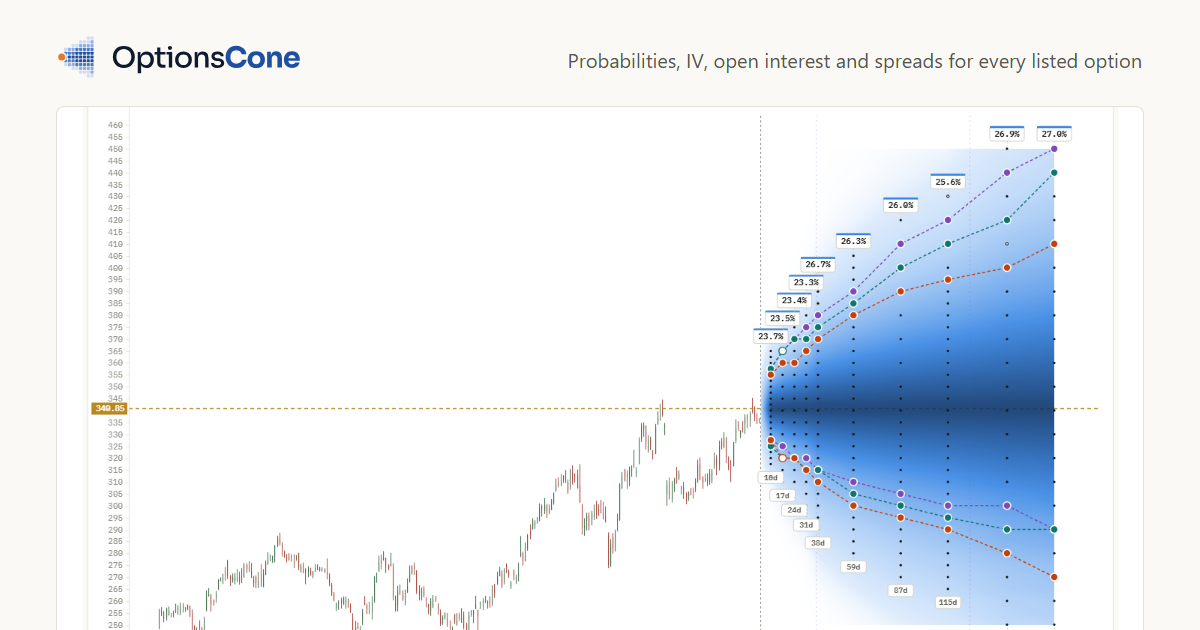
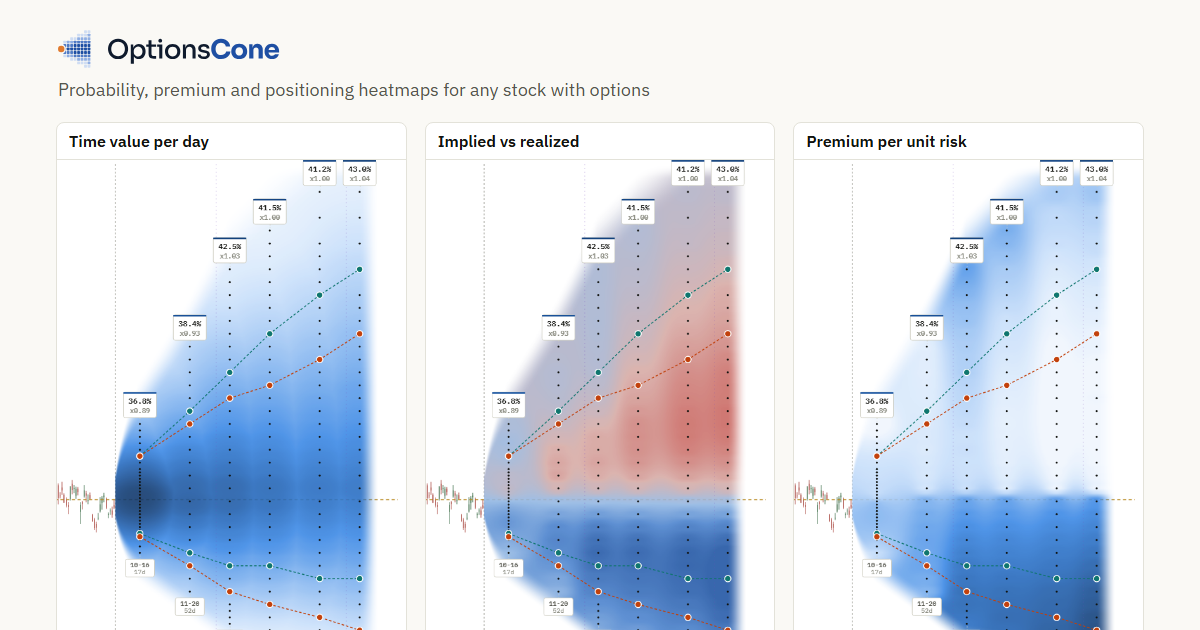
README and site wording to realized; new preview images

diff --git a/docs/index.html b/docs/index.html
@@ -13,7 +13,7 @@
 <meta property="og:title" content="OptionsCone: probability, premium and positioning heatmaps">
 <meta property="og:description" content="The option chain as heatmaps on the price chart, measured against the stock&#39;s own history. Free and open source.">
 <meta property="og:url" content="https://nikkn.github.io/OptionsCone/">
-<meta property="og:image" content="https://nikkn.github.io/OptionsCone/img/social.png?v=5">
+<meta property="og:image" content="https://nikkn.github.io/OptionsCone/img/social.png?v=6">
 <meta property="og:image:width" content="1200">
 <meta property="og:image:height" content="630">
 <meta property="og:image:alt" content="OptionsCone: a probability cone over the listed option strikes of a stock, with implied and historical contour lines.">
@@ -28,7 +28,7 @@
   "@context": "https://schema.org",
   "@type": "SoftwareApplication",
   "name": "OptionsCone",
-  "description": "Desktop app that shows the probability of touching or finishing beyond every listed option strike before expiry, from option prices and from a block bootstrap of the stock's own history.",
+  "description": "Desktop app with probability, premium and positioning heatmaps for any stock with options: touch and expiry probabilities, implied volatility, open interest, spreads, time value and premium relative to risk, compared with what the stock realized over the last ten years.",
   "applicationCategory": "FinanceApplication",
   "operatingSystem": "Windows 10, Windows 11",
   "offers": { "@type": "Offer", "price": "0", "priceCurrency": "USD" },
@@ -153,7 +153,7 @@
       <div class="card">
         <h3>Identify opportunities</h3>
         <ul class="qlist">
-          <li>Where does the market price more risk than the stock's own history produced?</li>
+          <li>Where does the market price in a higher probability than the stock realized?</li>
           <li>Which strikes pay a seller the most premium per unit of historical risk?</li>
           <li>Where does time value melt fastest per day?</li>
         </ul>

diff --git a/docs/methods.html b/docs/methods.html
@@ -12,7 +12,7 @@
 <meta property="og:title" content="How OptionsCone calculates touch and expiry probabilities">
 <meta property="og:description" content="American binomial IV, the first-passage formula, delta vs. N(d2) and a block bootstrap with intraday highs and lows.">
 <meta property="og:url" content="https://nikkn.github.io/OptionsCone/methods.html">
-<meta property="og:image" content="https://nikkn.github.io/OptionsCone/img/social.png?v=5">
+<meta property="og:image" content="https://nikkn.github.io/OptionsCone/img/social.png?v=6">
 <meta property="og:image:width" content="1200">
 <meta property="og:image:height" content="630">
 <meta property="og:image:alt" content="OptionsCone: a probability cone over the listed option strikes of a stock, with implied and historical contour lines.">

diff --git a/docs/use-cases.html b/docs/use-cases.html
@@ -12,7 +12,7 @@
 <meta property="og:title" content="What OptionsCone can tell you before and during a trade">
 <meta property="og:description" content="Stop loss odds, break-even, price targets and market vs. history, with real numbers.">
 <meta property="og:url" content="https://nikkn.github.io/OptionsCone/use-cases.html">
-<meta property="og:image" content="https://nikkn.github.io/OptionsCone/img/social.png?v=5">
+<meta property="og:image" content="https://nikkn.github.io/OptionsCone/img/social.png?v=6">
 <meta property="og:image:width" content="1200">
 <meta property="og:image:height" content="630">
 <meta property="og:image:alt" content="OptionsCone: a probability cone over the listed option strikes of a stock, with implied and historical contour lines.">

diff --git a/docs/manual.html b/docs/manual.html
@@ -12,7 +12,7 @@
 <meta property="og:title" content="OptionsCone manual">
 <meta property="og:description" content="Installing OptionsCone, reading the probability cone and using every control.">
 <meta property="og:url" content="https://nikkn.github.io/OptionsCone/manual.html">
-<meta property="og:image" content="https://nikkn.github.io/OptionsCone/img/social.png?v=5">
+<meta property="og:image" content="https://nikkn.github.io/OptionsCone/img/social.png?v=6">
 <meta property="og:image:width" content="1200">
 <meta property="og:image:height" content="630">
 <meta property="og:image:alt" content="OptionsCone: a probability cone over the listed option strikes of a stock, with implied and historical contour lines.">

diff --git a/README.md b/README.md
@@ -1,8 +1,11 @@
 # OptionsCone
 
-How likely is a stock to touch a given price before a given date? OptionsCone
-answers that for every listed option contract of a ticker, and draws the
-answer as a cone on the price chart.
+Probability, premium and positioning heatmaps for any stock with options.
+
+OptionsCone turns the option chain of the next six months into heatmaps on the
+price chart: touch and expiry probabilities, implied volatility, open interest,
+spreads, time value and premium relative to risk. It compares what the option
+market implies with what the stock realized over the last five and ten years.
 
 **Website, manual and methods: https://nikkn.github.io/OptionsCone/**
 
@@ -18,14 +21,14 @@ three models:
 - **5y** and **10y**: a block bootstrap of the stock's own daily history over
   the last five or ten years
 
-Where the market and the stock's history disagree, the lines separate.
+Where the market and what the stock realized disagree, the lines separate.
 
 The cone can also be colored by implied volatility, open interest, bid-ask
-spread, time value per day, the gap between the implied and the historical
-probability, or the premium per unit of historical risk. Hovering a contract shows its probabilities, quote, delta and gamma;
-clicking it keeps its numbers on screen while you switch maps. A
-data table lists the values for the whole chain, and the Methods section in the
-app explains every number.
+spread, time value per day, implied vs realized touch probability, or the
+premium per dollar of realized risk. Hovering a contract shows its
+probabilities, quote, delta and gamma; clicking it keeps its numbers on screen
+while you switch maps. A data table lists the values for the whole chain, and
+the Methods section in the app explains every number.
 
 ## Download
 
